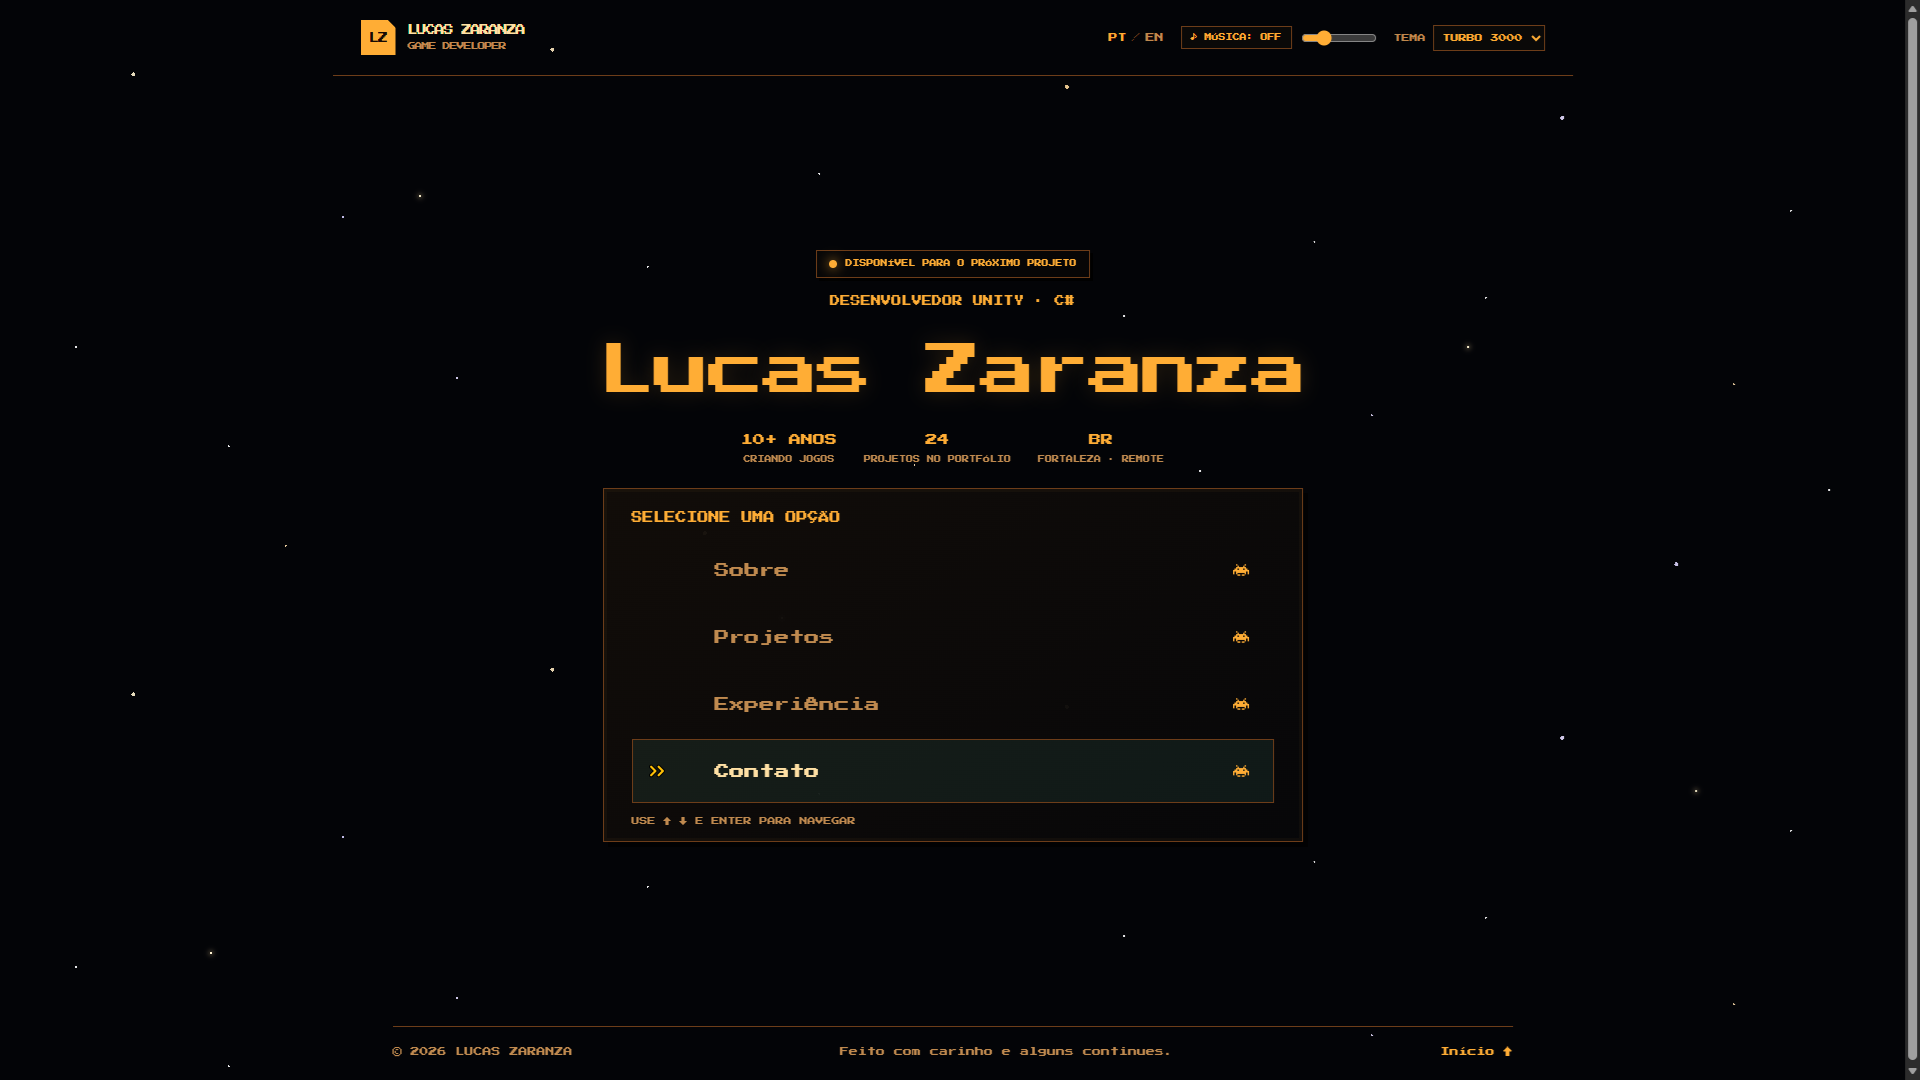
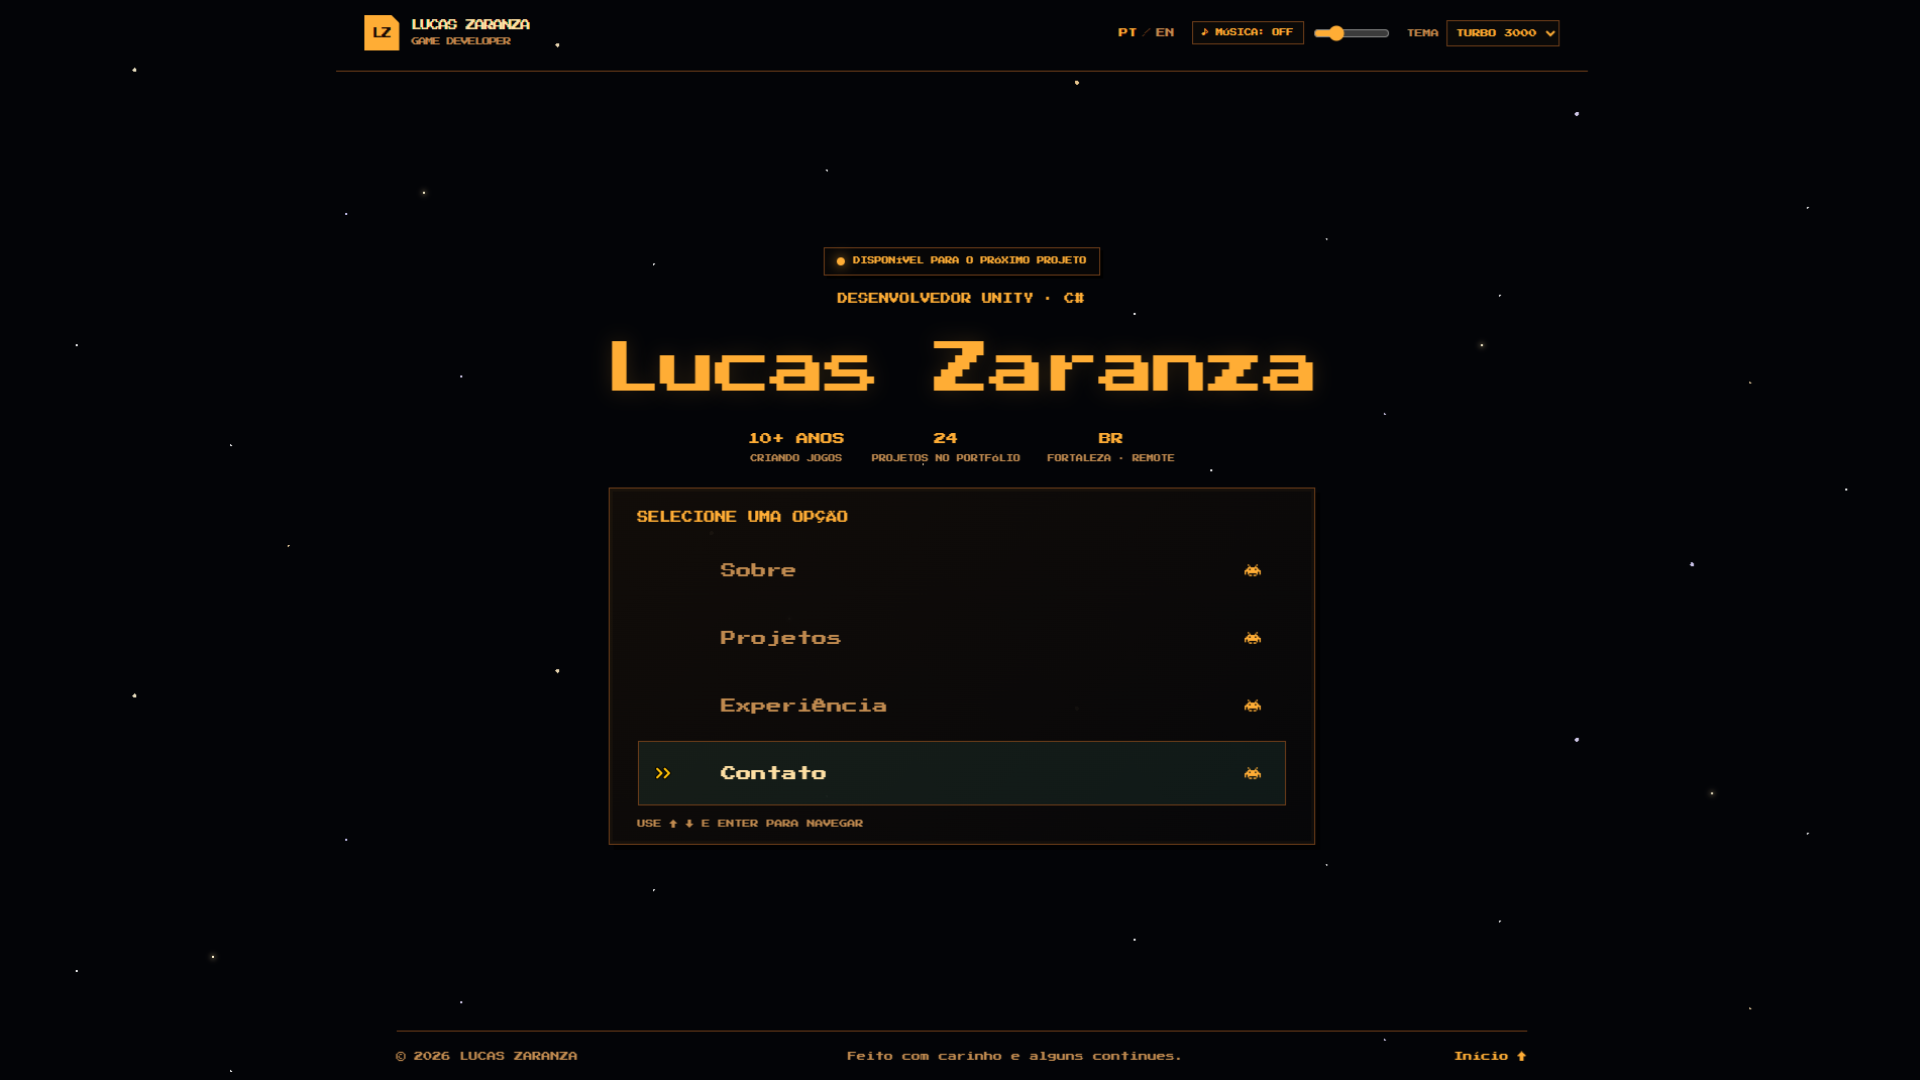
zaza games project added

diff --git a/src/data/projects.data.ts b/src/data/projects.data.ts
@@ -17,172 +17,187 @@ export type ProjectData = {
 
 export const projectsData: ProjectData[] = [
   {
-    id: 'newGamePortfolio',
-    image: '/projects/new-game-portfolio.png',
-    technologies: ['react', 'nextjs', 'tailwind'],
+    id: "zazaGames",
+    image: "/projects/zaza-games.webp",
+    technologies: ["react", "nextjs", "tailwind"],
     links: [
       {
-        type: 'link',
-        url: 'https://my-game-portfolio-next.vercel.app/',
+        type: "link",
+        url: "https://zaza-games-frontend.vercel.app/pt",
       },
       {
-        type: 'github',
-        url: 'https://github.com/lucaspzaranza/my-game-portfolio-next/',
+        type: "github",
+        url: "https://github.com/lucaspzaranza/zaza-games-frontend",
       },
     ],
   },
   {
-    id: 'calendarWidget',
-    image: '/projects/calendarWidget.png',
-    technologies: ['dotnet', 'csharp', 'avalonia'],
+    id: "newGamePortfolio",
+    image: "/projects/new-game-portfolio.png",
+    technologies: ["react", "nextjs", "tailwind"],
     links: [
       {
-        type: 'github',
-        url: 'https://github.com/lucaspzaranza/calendar-widget-dotnet',
+        type: "link",
+        url: "https://my-game-portfolio-next.vercel.app/",
+      },
+      {
+        type: "github",
+        url: "https://github.com/lucaspzaranza/my-game-portfolio-next/",
       },
     ],
   },
   {
-    id: 'astroCourse',
-    image: '/projects/astrocourse.webp',
-    technologies: ['react', 'nextjs', 'typescript', 'tailwind'],
+    id: "calendarWidget",
+    image: "/projects/calendarWidget.png",
+    technologies: ["dotnet", "csharp", "avalonia"],
     links: [
       {
-        type: 'link',
-        url: 'https://cursoastrologiacrista.vercel.app/',
-      },
-      {
-        type: 'github',
-        url: 'https://github.com/lucaspzaranza/cursoastrologiacrista',
+        type: "github",
+        url: "https://github.com/lucaspzaranza/calendar-widget-dotnet",
       },
     ],
   },
   {
-    id: 'portfolio',
-    image: '/projects/portfolio.png',
-    technologies: ['react', 'nextjs', 'typescript', 'tailwind'],
+    id: "astroCourse",
+    image: "/projects/astrocourse.webp",
+    technologies: ["react", "nextjs", "typescript", "tailwind"],
     links: [
       {
-        type: 'link',
-        url: 'https://www.lucaszaranza.com.br/',
+        type: "link",
+        url: "https://cursoastrologiacrista.vercel.app/",
       },
       {
-        type: 'github',
-        url: 'https://github.com/lucaspzaranza/frontend-portfolio',
+        type: "github",
+        url: "https://github.com/lucaspzaranza/cursoastrologiacrista",
       },
     ],
   },
   {
-    id: 'zazastro',
-    image: '/projects/zazastro.webp',
+    id: "portfolio",
+    image: "/projects/portfolio.png",
+    technologies: ["react", "nextjs", "typescript", "tailwind"],
+    links: [
+      {
+        type: "link",
+        url: "https://www.lucaszaranza.com.br/",
+      },
+      {
+        type: "github",
+        url: "https://github.com/lucaspzaranza/frontend-portfolio",
+      },
+    ],
+  },
+  {
+    id: "zazastro",
+    image: "/projects/zazastro.webp",
     technologies: [
-      'react',
-      'nextjs',
-      'typescript',
-      'd3',
-      'tailwind',
-      'node',
-      'express',
+      "react",
+      "nextjs",
+      "typescript",
+      "d3",
+      "tailwind",
+      "node",
+      "express",
     ],
     links: [
       {
-        type: 'link',
-        url: 'https://www.zazastro.com.br',
+        type: "link",
+        url: "https://www.zazastro.com.br",
       },
       {
-        type: 'github',
-        url: 'https://github.com/lucaspzaranza/zazastro',
+        type: "github",
+        url: "https://github.com/lucaspzaranza/zazastro",
       },
     ],
   },
   {
-    id: 'botbot',
-    image: '/projects/botbot.png',
-    technologies: ['react', 'nextjs', 'typescript', 'tailwind'],
+    id: "botbot",
+    image: "/projects/botbot.png",
+    technologies: ["react", "nextjs", "typescript", "tailwind"],
     links: [
       {
-        type: 'video',
-        videoId: 'jeLhruyxpio',
-      }
-    ],
-  },
-  {
-    id: 'elisa',
-    image: '/projects/elisa.webp',
-    technologies: ['react', 'nextjs', 'typescript', 'tailwind'],
-    links: [
-      {
-        type: 'link',
-        url: 'https://elisa-adv.vercel.app/',
-      },
-      {
-        type: 'github',
-        url: 'https://github.com/lucaspzaranza/elisa-adv',
+        type: "video",
+        videoId: "jeLhruyxpio",
       },
     ],
   },
   {
-    id: 'digicard',
-    image: '/projects/digicard.webp',
-    technologies: ['angular', 'typescript', 'dotnet', 'csharp'],
+    id: "elisa",
+    image: "/projects/elisa.webp",
+    technologies: ["react", "nextjs", "typescript", "tailwind"],
     links: [
       {
-        type: 'link',
-        url: 'https://digimon-signalr.vercel.app/',
+        type: "link",
+        url: "https://elisa-adv.vercel.app/",
       },
       {
-        type: 'github',
-        url: 'https://github.com/lucaspzaranza/digimon-signalr',
-      },
-      {
-        type: 'video',
-        videoId: 'xzkA0rF5tyc'
+        type: "github",
+        url: "https://github.com/lucaspzaranza/elisa-adv",
       },
     ],
   },
   {
-    id: 'oldPortfolio',
-    image: '/projects/old-portfolio.png',
-    technologies: ['react', 'javascript', 'styled-components'],
+    id: "digicard",
+    image: "/projects/digicard.webp",
+    technologies: ["angular", "typescript", "dotnet", "csharp"],
     links: [
       {
-        type: 'link',
-        url: 'https://lucasz-old-portfolio.vercel.app/',
+        type: "link",
+        url: "https://digimon-signalr.vercel.app/",
       },
       {
-        type: 'github',
-        url: 'https://github.com/lucaspzaranza/dev-zaza',
+        type: "github",
+        url: "https://github.com/lucaspzaranza/digimon-signalr",
+      },
+      {
+        type: "video",
+        videoId: "xzkA0rF5tyc",
       },
     ],
   },
   {
-    id: 'marcos',
-    image: '/projects/marcos.png',
-    technologies: ['react', 'javascript', 'styled-components'],
+    id: "oldPortfolio",
+    image: "/projects/old-portfolio.png",
+    technologies: ["react", "javascript", "styled-components"],
     links: [
       {
-        type: 'link',
-        url: 'https://constellations-of-marcos.vercel.app/',
+        type: "link",
+        url: "https://lucasz-old-portfolio.vercel.app/",
       },
       {
-        type: 'github',
-        url: 'https://github.com/lucaspzaranza/constellations-of-marcos',
+        type: "github",
+        url: "https://github.com/lucaspzaranza/dev-zaza",
       },
     ],
   },
   {
-    id: 'games',
-    image: '/projects/games.png',
-    technologies: ['react', 'javascript', 'css', 'unity', 'csharp'],
+    id: "marcos",
+    image: "/projects/marcos.png",
+    technologies: ["react", "javascript", "styled-components"],
     links: [
       {
-        type: 'link',
-        url: 'https://lucaszaranza-gamedev.netlify.app/',
+        type: "link",
+        url: "https://constellations-of-marcos.vercel.app/",
       },
       {
-        type: 'github',
-        url: 'https://github.com/lucaspzaranza/my-game-portfolio',
+        type: "github",
+        url: "https://github.com/lucaspzaranza/constellations-of-marcos",
       },
     ],
   },
-]
+  {
+    id: "games",
+    image: "/projects/games.png",
+    technologies: ["react", "javascript", "css", "unity", "csharp"],
+    links: [
+      {
+        type: "link",
+        url: "https://lucaszaranza-gamedev.netlify.app/",
+      },
+      {
+        type: "github",
+        url: "https://github.com/lucaspzaranza/my-game-portfolio",
+      },
+    ],
+  },
+];

diff --git a/src/i18n/pt.ts b/src/i18n/pt.ts
@@ -72,6 +72,15 @@ export const pt = {
         - Backend em Node.js/Express para os cálculos astronômicos, consumido pelo frontend via API REST.
         `,
       },
+      zazaGames: {
+        title: 'Zaza Games - Jogos para Eventos',
+        description: `
+        Site desenvolvido para divulgar meus serviços de criação de jogos sob encomenda para eventos, apresentando as soluções e facilitando o contato com potenciais clientes.
+
+        A arquitetura organiza o conteúdo em componentes e seções reutilizáveis, com uma interface responsiva que adapta a apresentação dos serviços a diferentes dispositivos.
+        Configurei o consentimento e as preferências de cookies do site e integrei os serviços da Google Tag e o Google Analytics 4 (GA4) para mensuração de visitas e interações.
+        `,
+      },
       botbot: {
         title: 'Dashboard para Robôs',
         description: `Dashboard web para gerenciamento de robôs, onde podemos monitorar suas informações, visualizar suas coordenadas, e enviar comandos.

diff --git a/src/i18n/en.ts b/src/i18n/en.ts
@@ -73,6 +73,15 @@ export const en = {
         - Node.js/Express backend for astronomical calculations, consumed by the frontend through a REST API.
       `,
       },
+      zazaGames: {
+        title: 'Zaza Games - Games for Events',
+        description: `
+        Website created to promote my custom game development services for events, showcase the available solutions, and make it easier for potential clients to get in touch.
+
+        Its architecture organizes content into reusable components and sections, with a responsive interface that adapts the service presentation to different devices.
+        I configured the site's cookie consent and preferences, and integrated Google Tag services and Google Analytics 4 (GA4) to measure visits and interactions.
+        `,
+      },
       botbot: {
         title: 'Robot Management Dashboard',
         description: `A web dashboard for robot management, allowing users to monitor information, visualize coordinates, and send commands.
